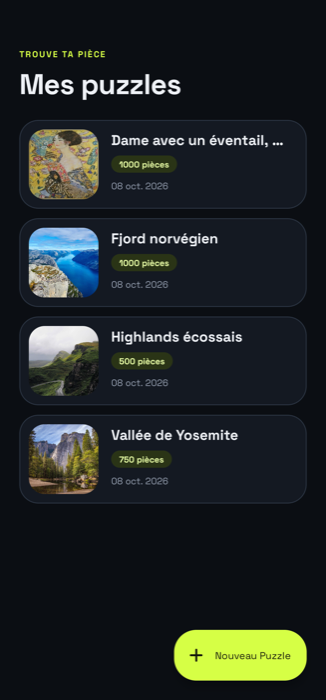
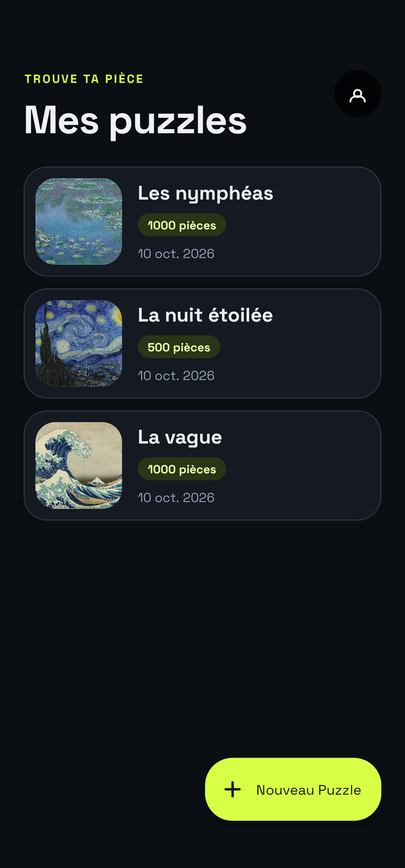
docs: README list screenshot taken on an emulator with public-domain demo puzzles
Adds DemoTourTest#readmeList (emulator only) and updates the image credits.

diff --git a/app/src/androidTest/java/com/lilyan_lefevre/puzzleit/e2e/DemoTourTest.kt b/app/src/androidTest/java/com/lilyan_lefevre/puzzleit/e2e/DemoTourTest.kt
@@ -218,6 +218,40 @@ class DemoTourTest {
         }
     }
 
+    /**
+     * The README screenshot of the list. It needs puzzles that are not the person's: on an emulator only (never on a real phone), it creates three from the
+     * public-domain images wave.jpg, starry.jpg and lilies.jpg of the directory given as `-e demoBoxDir <dir>`, and removes them afterwards.
+     */
+    @Test
+    fun readmeList() {
+        hilt.inject()
+        assumeTrue("emulator only: it would add puzzles to a real phone", android.os.Build.HARDWARE == "ranchu" || android.os.Build.HARDWARE == "goldfish")
+        val dir = InstrumentationRegistry.getArguments().getString("demoBoxDir")
+        assumeTrue("needs -e demoBoxDir <dir with wave.jpg, starry.jpg, lilies.jpg>", dir != null)
+        val demos = listOf(Triple("wave", "La vague", 1000), Triple("starry", "La nuit étoilée", 500), Triple("lilies", "Les nymphéas", 1000))
+        val ids = demos.map { "demo-list-${it.first}" }
+        val files = demos.map { File(ctx.filesDir, "demo_list_${it.first}.jpg") }
+
+        try {
+            runBlocking {
+                demos.forEachIndexed { i, (key, name, pieces) ->
+                    val art = BitmapFactory.decodeFile(File(dir, "$key.jpg").path)
+                    val cols = sqrt(pieces * art.width.toFloat() / art.height).roundToInt()
+                    val ref = TestImages.save(art, ctx.filesDir, files[i].name).absolutePath
+                    repository.deleteProject(ids[i])
+                    repository.createProject(ids[i], ref, ref, ref, name, pieces, (pieces / cols.toFloat()).roundToInt(), cols, "medium", null)
+                }
+            }
+            ActivityScenario.launch(MainActivity::class.java).use { scenario ->
+                waitFor { onView(withText(demos.last().second)).check(matches(isDisplayed())) }
+                Thread.sleep(2000); shot(scenario, "list")
+            }
+        } finally {
+            runBlocking { ids.forEach { repository.deleteProject(it) } }
+            files.forEach { it.delete() }
+        }
+    }
+
     /** The README screenshot of a blurry photo being refused, on the same puzzle. */
     @Test
     fun readmeBlurry() {

diff --git a/.claude/CLAUDE.md b/.claude/CLAUDE.md
@@ -113,7 +113,9 @@ The owner speaks French: talk to them in French; code, comments and commit messa
   read only, real swipes, animations ON; skipped without that argument. Encode with ffmpeg `-vf fps=60` H.264,
   no ffmpeg installed: `pip install imageio-ffmpeg`. Never let the recording run into the home screen). Screenshots (PixelCopy) land in `/sdcard/Android/data/com.lilyan_lefevre.puzzleit/files/shots`.
   README images: `DemoTourTest#readmeShots` (table, result, why, map) and `#readmeBlurry`, same `-e demoPuzzle "La vague"`, files `readme_*.png`; scale to 405x868 (ffmpeg, lanczos) into `documentation/screenshots`.
-  `list.png` is not regenerated: the list shows every puzzle of the phone (private ones included), so it needs a phone or emulator that holds only demo puzzles.
+  `list.png` is never taken on the phone (the list shows every puzzle, private ones included): `DemoTourTest#readmeList` runs on the emulator only (`Build.HARDWARE` ranchu/goldfish), creates three public-domain puzzles from
+  `-e demoBoxDir <dir>` (wave.jpg, starry.jpg, lilies.jpg from Wikimedia Commons) and deletes them. Start the AVD `puzzle34` (`emulator -avd puzzle34 -no-window -gpu swiftshader_indirect`), `adb -s emulator-5554 shell wm size 1440x3088`
+  and `wm density 560` (same proportions as the phone), `cmd locale set-app-locales com.lilyan_lefevre.puzzleit --locales fr-FR`, install with `adb -s emulator-5554 install` (never `installDebug`: it also hits the plugged phone).
 - Phone tips: animations off, `adb shell cmd notification set_dnd on`, `adb shell svc power stayon true`; wireless adb
   drops often (`adb devices` before running). Never use `UiAutomation.takeScreenshot` in Espresso (steals focus).
 - Tests touch the real app DB: they only insert/delete project id `e2e-scan-flow`. Demo puzzles `demo-*` on the phone

diff --git a/README.md b/README.md
@@ -23,7 +23,7 @@ Every lead is a piece-sized square on the map with its share of confidence; the 
 way, next to the box at the selected lead so you can check it by eye. A blurry photo or an empty table is refused with a
 message (`documentation/screenshots/blurry.png`).
 
-Demo box photos: Alexey Topolyanskiy, Andrew Ridley and Christian Joudrey on [Unsplash](https://unsplash.com) (Unsplash License).
+Demo box images: Hokusai's *The Great Wave*, Van Gogh's *The Starry Night* and Monet's *Water Lilies*, all public domain ([Wikimedia Commons](https://commons.wikimedia.org)).
 
 ## Features
 - Scan the box once: the photo is straightened (OpenCV) and becomes the reference image. No grid to type.
